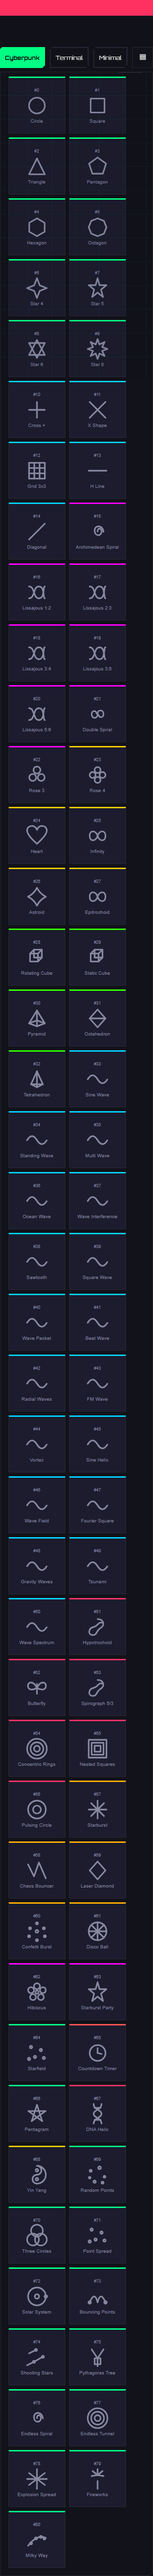
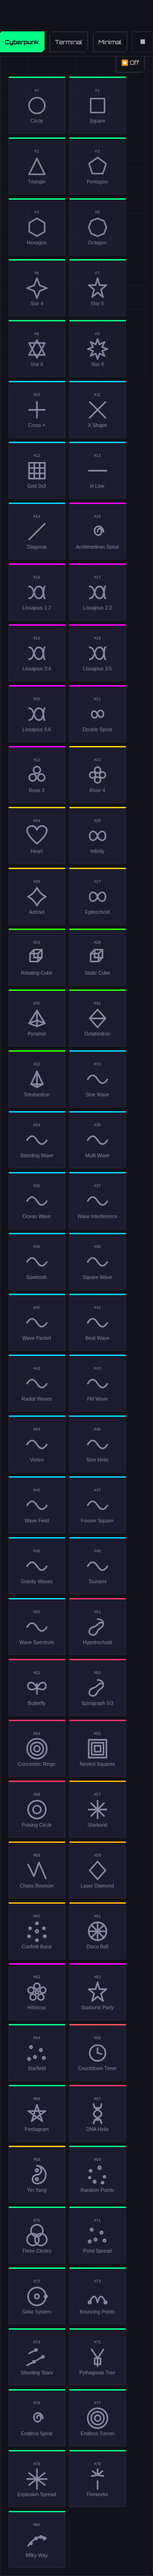
docs: Chapter 4/7/8 catch up on the Monitoring popup and Optimizer kill switches, screenshots stop living in July
- Document data/monitor.html (v1.30.0's read-only popup dashboard) and
  GET/POST /api/debug/optimizers (v6.90.0's per-stage pipeline kill
  switches) -- both shipped in firmware/UI weeks ago without a single line
  of documentation to their name.
- New troubleshooting entry: a stuck kill switch looks exactly like 'my
  optimizer slider does nothing', so now it's the second thing to check.
- Regenerated every screenshot in docs/assets/screenshots/ live against the
  real board (UI v1.5.3 -> v1.30.0, a month of drift) via
  scripts/capture_screenshots.py, plus two new ones for the features above.
  Script gained a monitor.html capture step and learned that Sequencer
  folded itself into a <details> and stopped answering to h2 selectors.
- Retired the now-resolved 'screenshots are stale' entry from Chapter 10 --
  it was right, and now it isn't.

Changed region(s): [[0.0, 0.0, 1.0, 0.0312]]

diff --git a/scripts/capture_screenshots.py b/scripts/capture_screenshots.py
@@ -65,9 +65,12 @@ SENSITIVE_SELECTORS = [
     '[id*="hostname" i]', '[class*="hostname" i]',
 ]
 
-# Card root is `.card:has(h2:text-is("<heading>"))`. Tab id must match
-# data/index.html's NAV_TABS ids (note: Calibration's real tab id is "calib",
-# not "calibration").
+# Card root is `.card:has(h2:text-is("<heading>"))` for a plain card, or
+# `.card:has(summary:text-is("<heading>"))` for one whose body lives inside a
+# collapsible `<details>` (Sequencer, Bindings, Points-Only/Flow Mode, ...) --
+# save_card() tries both and force-opens any collapsed `<details>` it finds
+# before shooting. Tab id must match data/index.html's NAV_TABS ids (note:
+# Calibration's real tab id is "calib", not "calibration").
 TAB_SHOTS = [
     ("Dashboard", "dashboard", "tab_dashboard.png"),
     ("Presets", "presets", "tab_presets.png"),
@@ -99,6 +102,7 @@ CARD_SHOTS = [
     ("calib", "Projection Zone", "card_zone.png"),
     ("log", "Memory Viewer", "card_memory.png"),
     ("config", "Debug", "card_debug.png"),
+    ("config", "Optimizer Debug — Kill Switches", "card_debug_optimizers.png"),
 ]
 
 results = []   # (filename, label) in capture order, for the final MD block
@@ -195,9 +199,15 @@ def save_full_page(page, out_path, label):
 def save_card(page, tab_id, heading, out_path, label):
     global ok_count, skip_count
     try:
-        card = page.locator(f'.card:has(h2:text-is("{heading}"))').first
+        card = page.locator(
+            f'.card:has(h2:text-is("{heading}")), .card:has(summary:text-is("{heading}"))'
+        ).first
         card.wait_for(state="visible", timeout=5000)
         card.scroll_into_view_if_needed()
+        # Force-open any collapsed <details> inside the card (Sequencer,
+        # Bindings, Points-Only/Flow Mode, ...) so its body is visible instead
+        # of just the summary bar.
+        card.evaluate("el => el.querySelectorAll('details.collapsible').forEach(d => d.open = true)")
         page.wait_for_timeout(200)
         card_box = card.bounding_box()
         if not card_box:
@@ -318,6 +328,21 @@ def main():
             for heading, card_filename in card_lookup.get(tab_id, []):
                 card_label = f"{label} - {heading}"
                 save_card(page, tab_id, heading, out_dir / card_filename, card_label)
+
+        # ---- Monitoring popup page (monitor.html) ----
+        # Not a tab in #app -- a separate static page, opened via window.open()
+        # from the topbar in normal use. Navigate directly and let its own
+        # polling loop populate before shooting it, same idea as the
+        # Dashboard settle wait above.
+        try:
+            page.goto(f"{BASE_URL}/monitor.html", wait_until="load", timeout=15000)
+            page.wait_for_timeout(NAV_WAIT_MS)
+            print(f"Waiting {DASHBOARD_SETTLE_MS // 1000}s for Monitoring page data to settle...")
+            page.wait_for_timeout(DASHBOARD_SETTLE_MS)
+            save_full_page(page, out_dir / "page_monitor.png", "Monitoring popup window")
+        except Exception as e:
+            warn(f"failed to capture monitor.html: {e}")
+            skip_count += 1
 
         browser.close()
 

diff --git a/docs/04-ui-guide.md b/docs/04-ui-guide.md
@@ -10,6 +10,7 @@ The GalvOS WebUI is a single-page application served directly from the ESP32's L
 - [Installing as a PWA](#installing-as-a-pwa)
 - [General Layout](#general-layout)
 - [Themes](#themes)
+- [Monitoring Popup Window](#monitoring-popup-window)
 - [Tab: Dashboard](#tab-dashboard)
 - [Tab: Presets](#tab-presets)
 - [Tab: Preset Manager](#tab-preset-manager)
@@ -78,6 +79,7 @@ The **top bar** stays pinned while you scroll and carries the controls that must
 - **ARM / DISARM** — the laser arm control lives here, on its own always-visible row, guaranteed on screen at every viewport width from 320 px up. It is the one control you must never have to hunt for on the phone you're holding during a show.
 - **Master Dimmer** — global brightness as a top-bar chip, visible even on the narrowest mobile layout.
 - **Status dots** — beam, E-Stop, scan-fail, sequencer beat, and Wi-Fi state, each with proper `role=status`/`aria-label` for screen readers.
+- **📡 Open Monitoring window** — opens the read-only [monitoring popup](#monitoring-popup-window) in a separate browser window.
 - The **safety banner** (shown when an interlock trips) stacks above the top bar instead of fighting it for the same pixels.
 
 The page title shows both version numbers as `FW: x.y.z - UI:X.Y.Z`. The WebUI carries its own version (`UI_VERSION`), independent of the firmware — flashing only the filesystem changes one and not the other, so "which UI build am I actually looking at" has an answer.
@@ -95,6 +97,16 @@ The WebUI ships **three switchable themes**, driven by a CSS custom-property tok
 - **Minimalist Dark** — no glow, no decor, just controls. The theme you switch to when someone serious is watching.
 
 Pick a theme via the theme buttons in the navigation. The choice persists in the browser's localStorage and is applied by an inline boot script before first paint — no flash of the wrong theme on reload. Colors that encode real meaning (sensor chart lines, log severity, laser color swatches) are deliberately identical across all themes.
+
+---
+
+## Monitoring Popup Window
+
+![Monitoring popup window](assets/screenshots/page_monitor.png)
+
+A second, read-only page (`monitor.html`) opened via the **📡** button in the top bar, so the show can run full-screen on the main display while the numbers watch themselves on a second monitor. It never sends a write API call — no ARM/DISARM, no sliders, nothing that touches the pattern engine — it only polls the same status endpoints the Dashboard does.
+
+It carries its own connection/armed-state pills, a Safety card (E-Stop/Scan-Fail LEDs, fault reason, override warning), System and Telemetry field grids, the same six scrolling charts as the [Dashboard tab](#tab-dashboard) (CPU Load, Temperature History, Galvo Output Rate, Frame Composition, Buffer Fill, WiFi Signal), the Optimizer's [Live Telemetry](#live-telemetry) block, and a mirror of the current preset + log tail in its sidebar. Since it is a plain `window.open()` popup rather than a tab, it keeps running — and polling — independently of whatever tab is active in the main window.
 
 ---
 
@@ -833,6 +845,18 @@ Because "I remember my DAC limits" is not a disaster recovery plan.
 - **Hardware Test (direct galvo/laser)** — positions the beam directly: X/Y sliders, R/G/B channel toggles, corner/center jump buttons, **Reset**, **All Off**, and **Exit Debug**. While active it blocks normal pattern output.
 - **Status** — the current preset and a tail of the log, so you can see what the device thinks it is doing without switching tabs.
 - **OTA Update** — firmware update via HTTP at `http://laser/update` (admin / your password). The page itself covers firmware and WebUI updates, a config backup shortcut, and a reboot button — see [Chapter 3 — Wireless / OTA Update](03-build-and-config.md#wireless--ota-update).
+
+### Optimizer Debug — Kill Switches
+
+![Optimizer Debug — Kill Switches card](assets/screenshots/card_debug_optimizers.png)
+
+A separate card directly below Debug, backed by [`GET`/`POST /api/debug/optimizers`](08-api-reference.md#get-apidebugoptimizers). Each checkbox forces one render-pipeline stage off, independent of whichever optimizer profile is active — for isolating a hardware artifact (ringing, clipping, a stray jump) one variable at a time without touching that profile's own saved settings.
+
+- **Galvo Pipeline** — Corner Density (Pillar 1), Blank-Jump Density (Pillar 2), Resample, Curvature-Adaptive Resample, Ringing Compensation (Pillar 3), Velocity Clamp, Acceleration Clamp, Jitter, Segment Reorder, Reorder 2-opt, PPS Scaling, Pipeline Cache, Mirror, Kaleidoscope, Duplicator, Live Transform (Z-rotation/move).
+- **TTL / Laser Output** — Laser Hold-Tick Latency Compensation, RGB Gamma Correction.
+- **Disable All** / **Enable All (Reset)** — flips every switch at once, e.g. to strip the pipeline down to bare geometry, or to snap back to a known-clean baseline after a debugging session.
+
+**RAM-only — resets to all-off on reboot.** A forgotten switch can't silently haunt the next power cycle, but it also means these are a *this-session-only* tool: to compare two settings, start from an **active** profile (a static, mostly-off profile like Particles will show little to no visible difference with everything else disabled too).
 
 ---
 

diff --git a/docs/08-api-reference.md b/docs/08-api-reference.md
@@ -1907,6 +1907,40 @@ Current resonance-test state (axis, frequency, amplitude, whether it is running)
 
 ---
 
+### `GET /api/debug/optimizers`
+
+Current state of the per-stage optimizer kill switches (WebUI: Configuration → Debug → [Optimizer Debug — Kill Switches](04-ui-guide.md#optimizer-debug--kill-switches)). RAM-only — resets to all-`false` on every boot, never written to NVS.
+
+```json
+{
+  "corner_density": false, "blank_density": false, "resample": false,
+  "curvature": false, "ringing": false, "vel_clamp": false, "accel_clamp": false,
+  "jitter": false, "reorder": false, "reorder_2opt": false, "pps_scaling": false,
+  "pipeline_cache": false, "mirror": false, "kaleido": false, "duplicator": false,
+  "transform": false, "laser_hold_ticks": false, "gamma": false
+}
+```
+
+Every field is a "disable" flag — `true` forces that pipeline stage off regardless of what the active optimizer profile's own settings say. `gamma` isn't a field on the underlying `DebugOptDisable` struct; it echoes the existing `gConfig.gamma_enable` toggle (inverted) so gamma sits in the same panel without a duplicate switch.
+
+---
+
+### `POST /api/debug/optimizers`
+
+Flip one or more kill switches. Body: `{"<field>": true|false, ...}` using the same field names as the `GET` above; unknown keys are ignored. Applies immediately, no arming/E-Stop guard required — these switches only ever make the render pipeline do *less*, they never drive hardware directly (unlike [`/api/debug/hw`](#post-apidebughw)).
+
+```json
+{"ringing": true, "vel_clamp": true}
+```
+
+`{"all": true|false}` is a convenience that sets every switch (including `gamma`) at once — `true` to isolate a hardware artifact with the whole pipeline stripped down, `false` to get back to a known-clean baseline after a debugging session in one call instead of clicking every checkbox.
+
+```json
+{"all": false}
+```
+
+---
+
 ### `POST /api/reboot`
 
 Restarts the device. Body: empty. The response is sent first and the restart is scheduled ~500 ms later on a separate timer task, so the HTTP response actually reaches the browser instead of dying with the connection.

diff --git a/docs/10-known-issues-and-todos.md b/docs/10-known-issues-and-todos.md
@@ -219,11 +219,6 @@ the open listen socket itself, which costs nothing to hold.
 **Status:** Open
 **Detail:** `docs/index.html` (served at [www.galvos.de](https://www.galvos.de)) is a standalone browser simulation of the WebUI, maintained by hand. It is not built from `data/index.html`, so it lags behind whenever the real UI changes.
 
-### WebUI screenshots in Chapter 4 are stale
-
-**Status:** Open
-**Detail:** Every screenshot in `docs/assets/screenshots/` was captured against UI v1.5.3 (2026-07-30); the WebUI is currently at v1.25.0. The overall Dashboard layout (Safety & Arm / System / Telemetry top row) still matches, but a fair amount has moved since — mobile-nav fixes, the Optimizer/Projection tab reworks, and the v6.80.0 Dashboard chart grid are all unshown. Concretely: `tab_dashboard.png`, `card_system.png`, and `card_cpu.png` no longer match the current layout, and there is no screenshot yet for the new Buffer Fill / WiFi RSSI charts. Screenshots are captured live from a running device via `scripts/capture_screenshots.py` (see the screenshot note near the top of [Chapter 4](04-ui-guide.md)) — needs a real board on hand to redo, which wasn't available when this was logged.
-
 ---
 
 ## Build & Tooling Issues

diff --git a/docs/07-troubleshooting.md b/docs/07-troubleshooting.md
@@ -278,6 +278,10 @@ If the ESP32 crashes with a Guru Meditation error, the serial monitor prints a b
 **Diagnosis:** Change a non-optimizer parameter (e.g. speed), then change back — this forces a cache invalidation.  
 **Expected behaviour:** Any optimizer parameter change via the WebUI automatically bumps `gPatternCacheGen`. If you are changing parameters directly in NVS without going through the WebUI, you may need to restart.
 
+**Cause B:** A per-stage debug kill switch (Configuration → Debug → [Optimizer Debug — Kill Switches](04-ui-guide.md#optimizer-debug--kill-switches)) is forcing the exact stage you're tuning off, independent of the profile's own setting.  
+**Diagnosis:** `GET /api/debug/optimizers` — any field `true` overrides that stage off regardless of the active profile.  
+**Fix:** Flip the switch back, or `POST /api/debug/optimizers {"all": false}` to clear all of them. These are RAM-only and reset on reboot, but not mid-session — a switch left on from an earlier debugging pass survives until you clear it or power-cycle.
+
 ### PPS scaling produces unexpected densities
 
 **Cause:** `galvo_rated_kpps` not set correctly for your galvo.  
